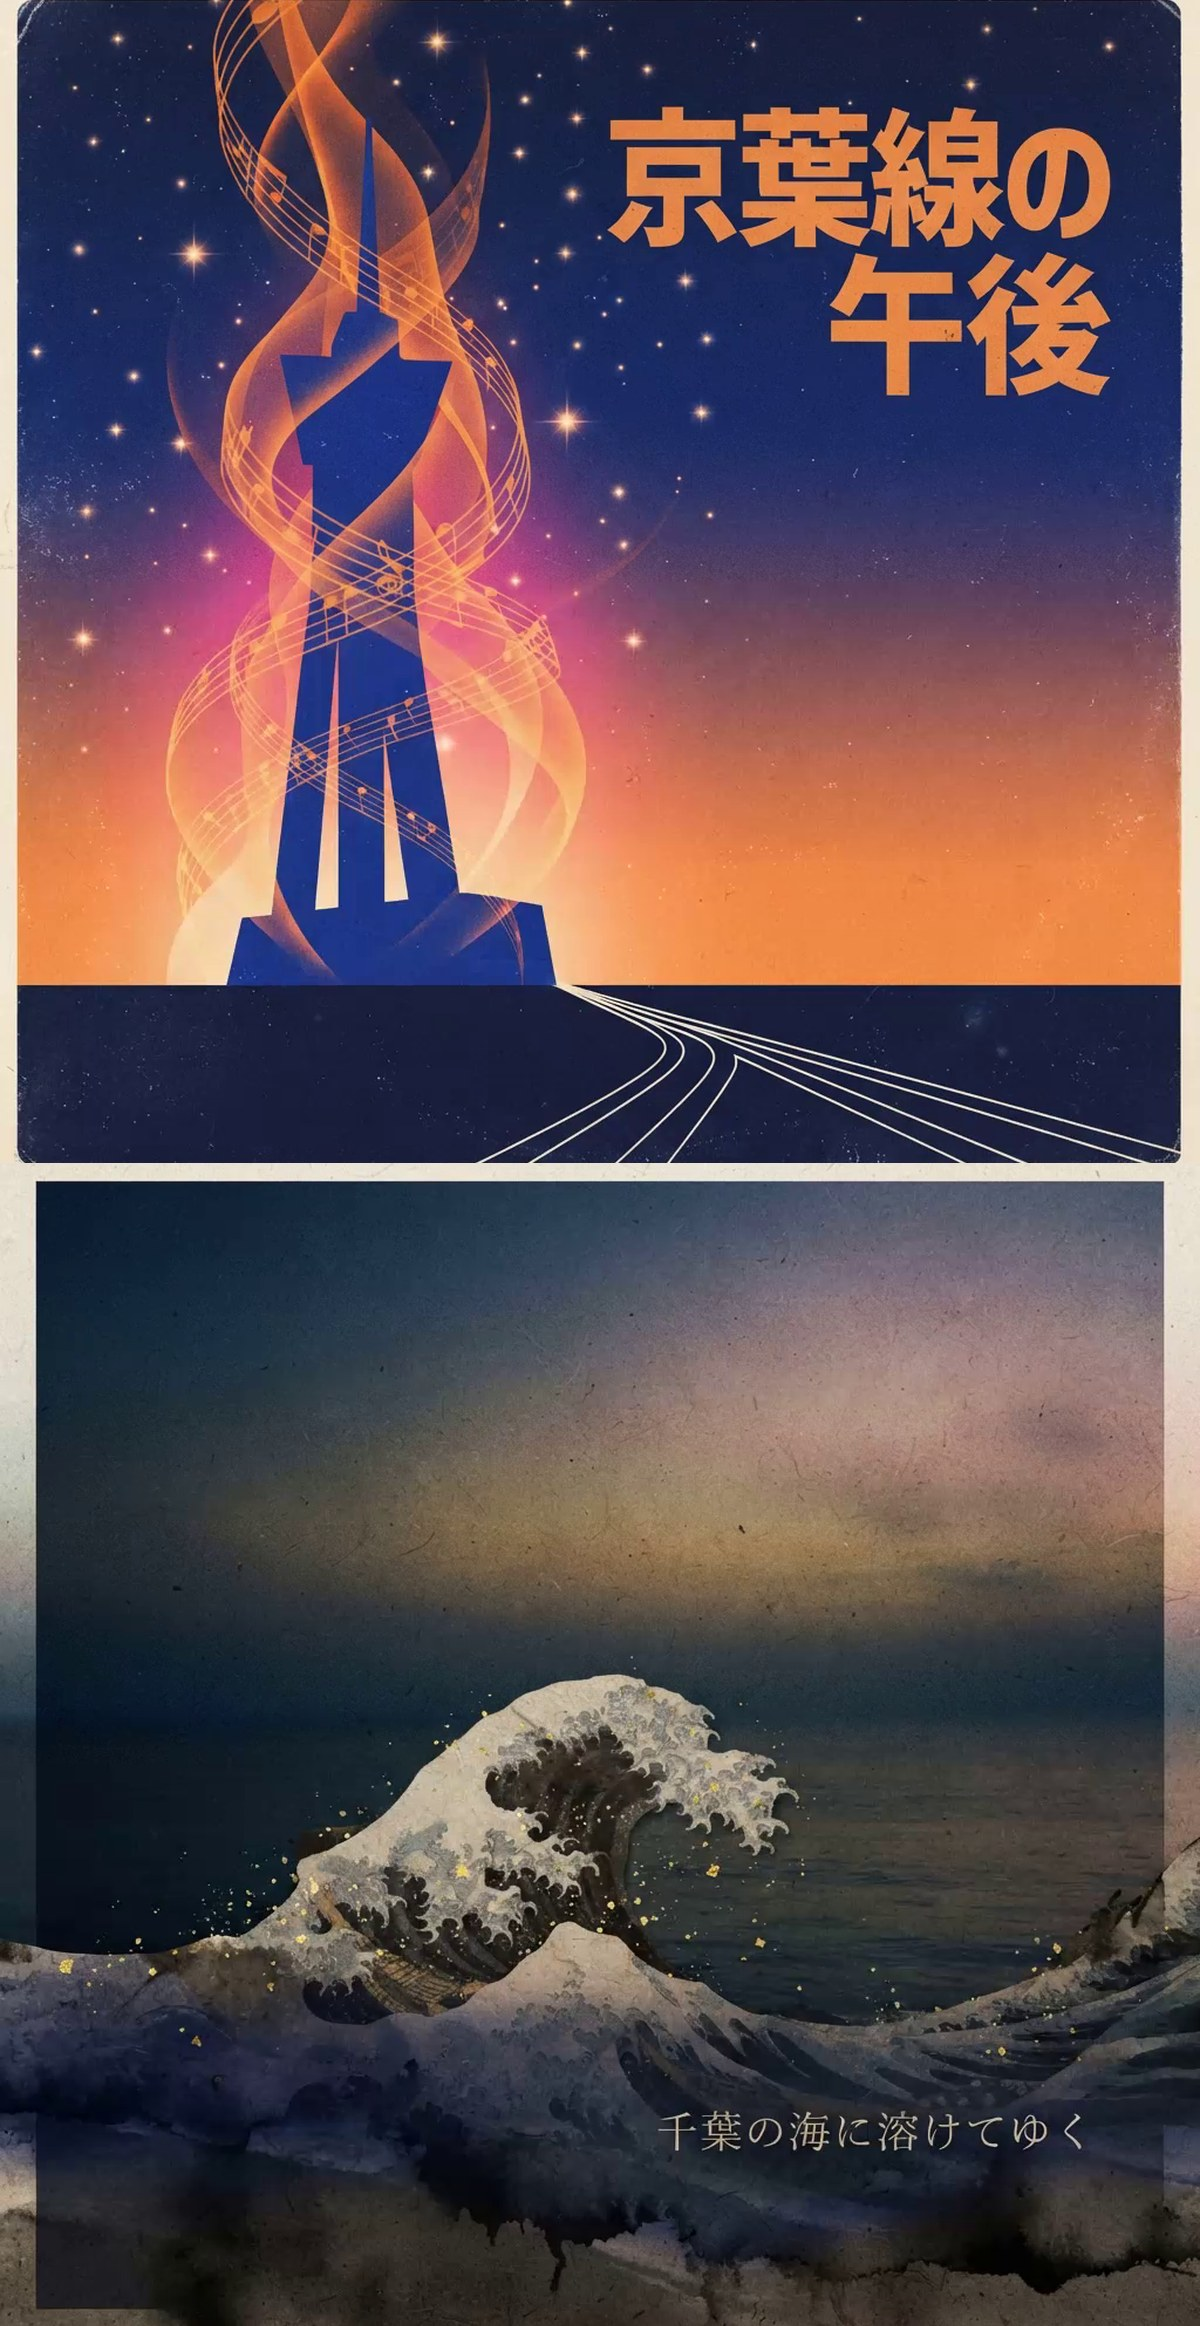
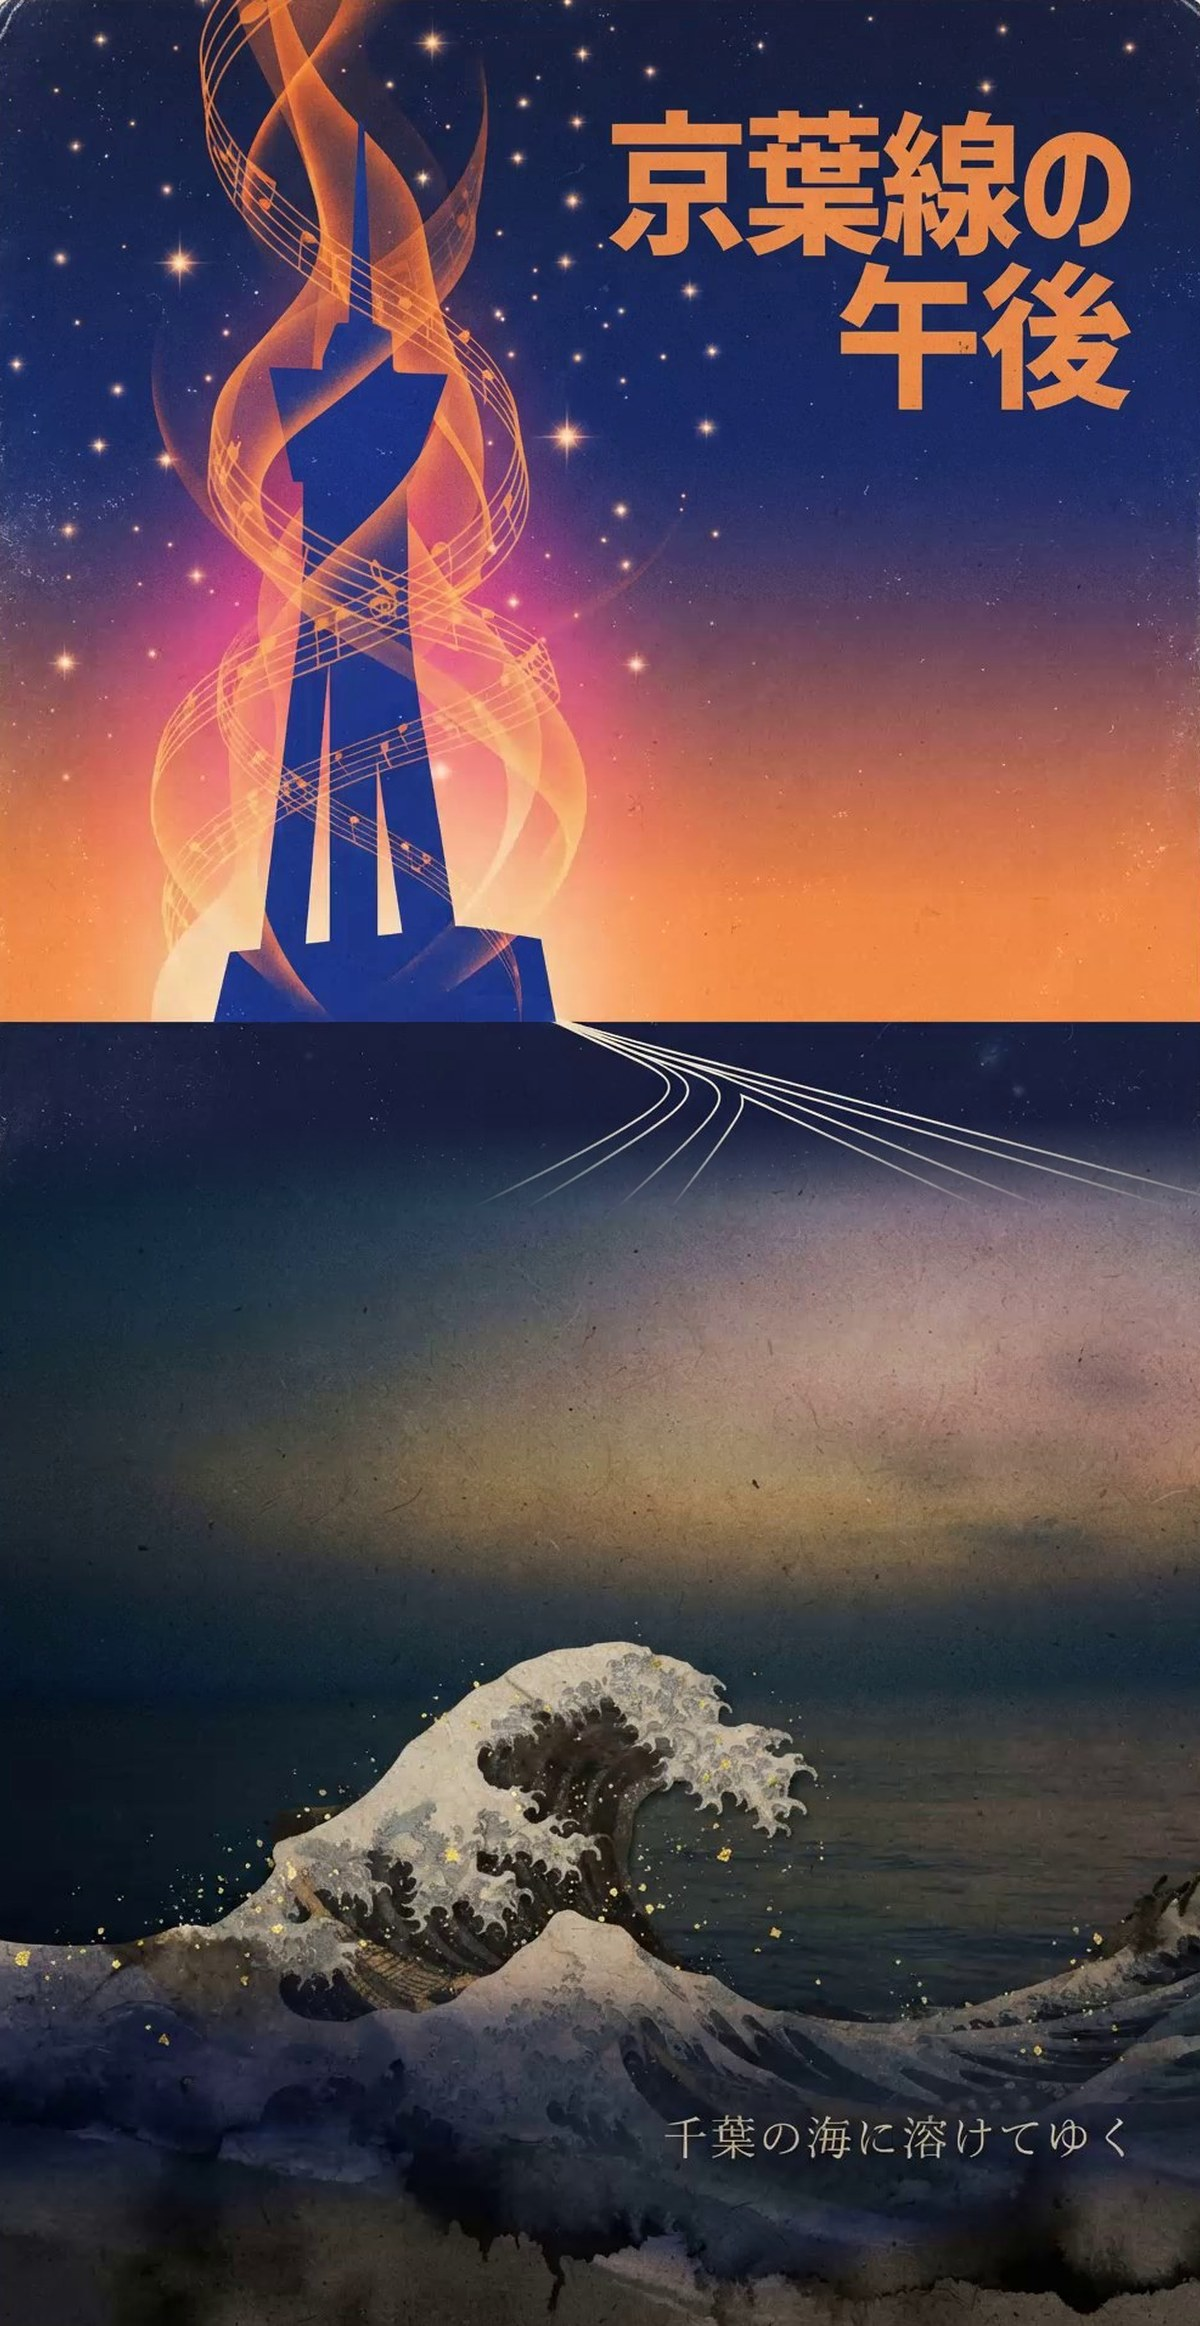
裏面画像をなじませる: 両カバーの紙枠を除き継ぎ目をクロスフェード (v1.0.2) (#5)
オーナー指示。両曲のカバー絵に焼き込まれた白枠(京葉線の午後=四辺約14px
の紙枠、千葉の海に溶けてゆく=額縁マット)を実測して除き、内側の絵だけを
使い、上下の継ぎ目に約90pxのクロスフェードを入れた。再生画面の曲
ジャケット自体は元のまま。
あわせて、この作り方を制作ルールとして docs/PRODUCTION.md の注意に明記
(今後の裏画像はこの手順で作る)。

diff --git a/docs/HANDOVER.md b/docs/HANDOVER.md
@@ -2,13 +2,13 @@
 
 作業の区切りごとに書き直す(次の作業を始める人や AI が、ここだけ読めば再開できるように)。古くなった内容は消し、今の状態だけを残す。
 
-更新: 2026-11-04・版 v1.0.1(歌詞ハイライトの時刻を付け直し)
+更新: 2026-11-04・版 v1.0.2(裏面画像のなじみ改善)
 
 ## 今の状態
 
 - デジタルシングルCD『京葉線の午後』(NK-S003)。PWA テンプレート構成(Vite + TypeScript + vite-plugin-pwa)。公開は GitHub Actions → GitHub Pages(リポジトリ `tanabata-soft/0mk7gjcg5n`)、URL は https://tanabata-soft.github.io/0mk7gjcg5n/ 。
 - エンジンはデジタルCDアルバム(NK-001)・デジタルシングルCD(NK-S001/NK-S002)と共通。作品データは `src/album/` に集約され、エンジンはそこだけを参照する。エンジンの版は NK-S001 v1.0.11 / NK-001 v1.1.10 時点のもの(初回一括ダウンロード込み)。
-- **シングル形態の分岐**: `album.ts` の `layout: 'single'` で、8cmシングル短冊型ジャケット(1:1.938)、ブックレットなしを切り替える。裏面は2曲のジャケット結合画像(back.jpg)の上にライナーノート・曲目(番号・タイトル・ジャンル・長さ、**表示専用**)・バージョン表示を載せるパネル。トップのボタンは再生のみ。インストール入口は表ジャケット(ボタン下の小リンク)。再生画面の右端ボタンはリピート切替(全曲⇔1曲)。トップへ戻ると再生停止。
+- **シングル形態の分岐**: `album.ts` の `layout: 'single'` で、8cmシングル短冊型ジャケット(1:1.938)、ブックレットなしを切り替える。裏面は2曲のジャケット結合画像(back.jpg)の上にライナーノート・曲目(番号・タイトル・ジャンル・長さ、**表示専用**)・バージョン表示を載せるパネル。**back.jpg は v1.0.2 で作り直し済み**: 両カバーに焼き込まれた紙枠(京葉線の午後=四辺約14px、千葉の海に溶けてゆく=額縁マット)を実測して除き、内側の絵だけを使い、継ぎ目に約90pxのクロスフェードを入れてなじませた(再生成は作業場の work/make_back.py、切り出し寸法はそのヘッダ参照。作り方は制作ルールとして docs/PRODUCTION.md の注意に明記)。再生画面の曲ジャケットは元のまま。トップのボタンは再生のみ。インストール入口は表ジャケット(ボタン下の小リンク)。再生画面の右端ボタンはリピート切替(全曲⇔1曲)。トップへ戻ると再生停止。
 - Service Worker は vite-plugin-pwa の自動生成。「更新」ボタン方式。音源は初回起動時に一括ダウンロード(表示つき、キャッシュ名 `keiyo-single-audio`)、画像は事前キャッシュ。
 - 背景(bg.jpg)は素材に指定が無かったため、ジャケットのテーマ色(夕方の紺)の色面で作った(制作ルール: 背景指定なし=テーマ色の色面)。
 

diff --git a/docs/PRODUCTION.md b/docs/PRODUCTION.md
@@ -51,3 +51,4 @@
 
 - 公開済みのアルバムは、それぞれ独立したリポジトリとアプリ ID を持つ。エンジン側の直しは公開済みの作品に自動では効かない（作品が壊れないための割り切り）。同じ直しを複数作に当てるときは、各リポジトリに同じ変更を入れる。
 - Netlify は使わない（サウンド単行本の納品枠を温存する決まり）。
+- **裏面の下絵（back.jpg）のなじませ（オーナー指示 2026-11-04）**: 裏面の下絵に曲ジャケットを並べるときは、ジャケットに焼き込まれた白枠・紙枠・額縁マットをそのまま使わない。枠の厚みを実測して内側の絵だけを切り出し、上下の継ぎ目にはクロスフェード（目安90px）を入れてなじませる（NK-S002 v1.1.1、NK-S003 v1.0.2 で実施）。再生画面の曲ジャケット（trackNN.jpg）自体は元のままでよい。
